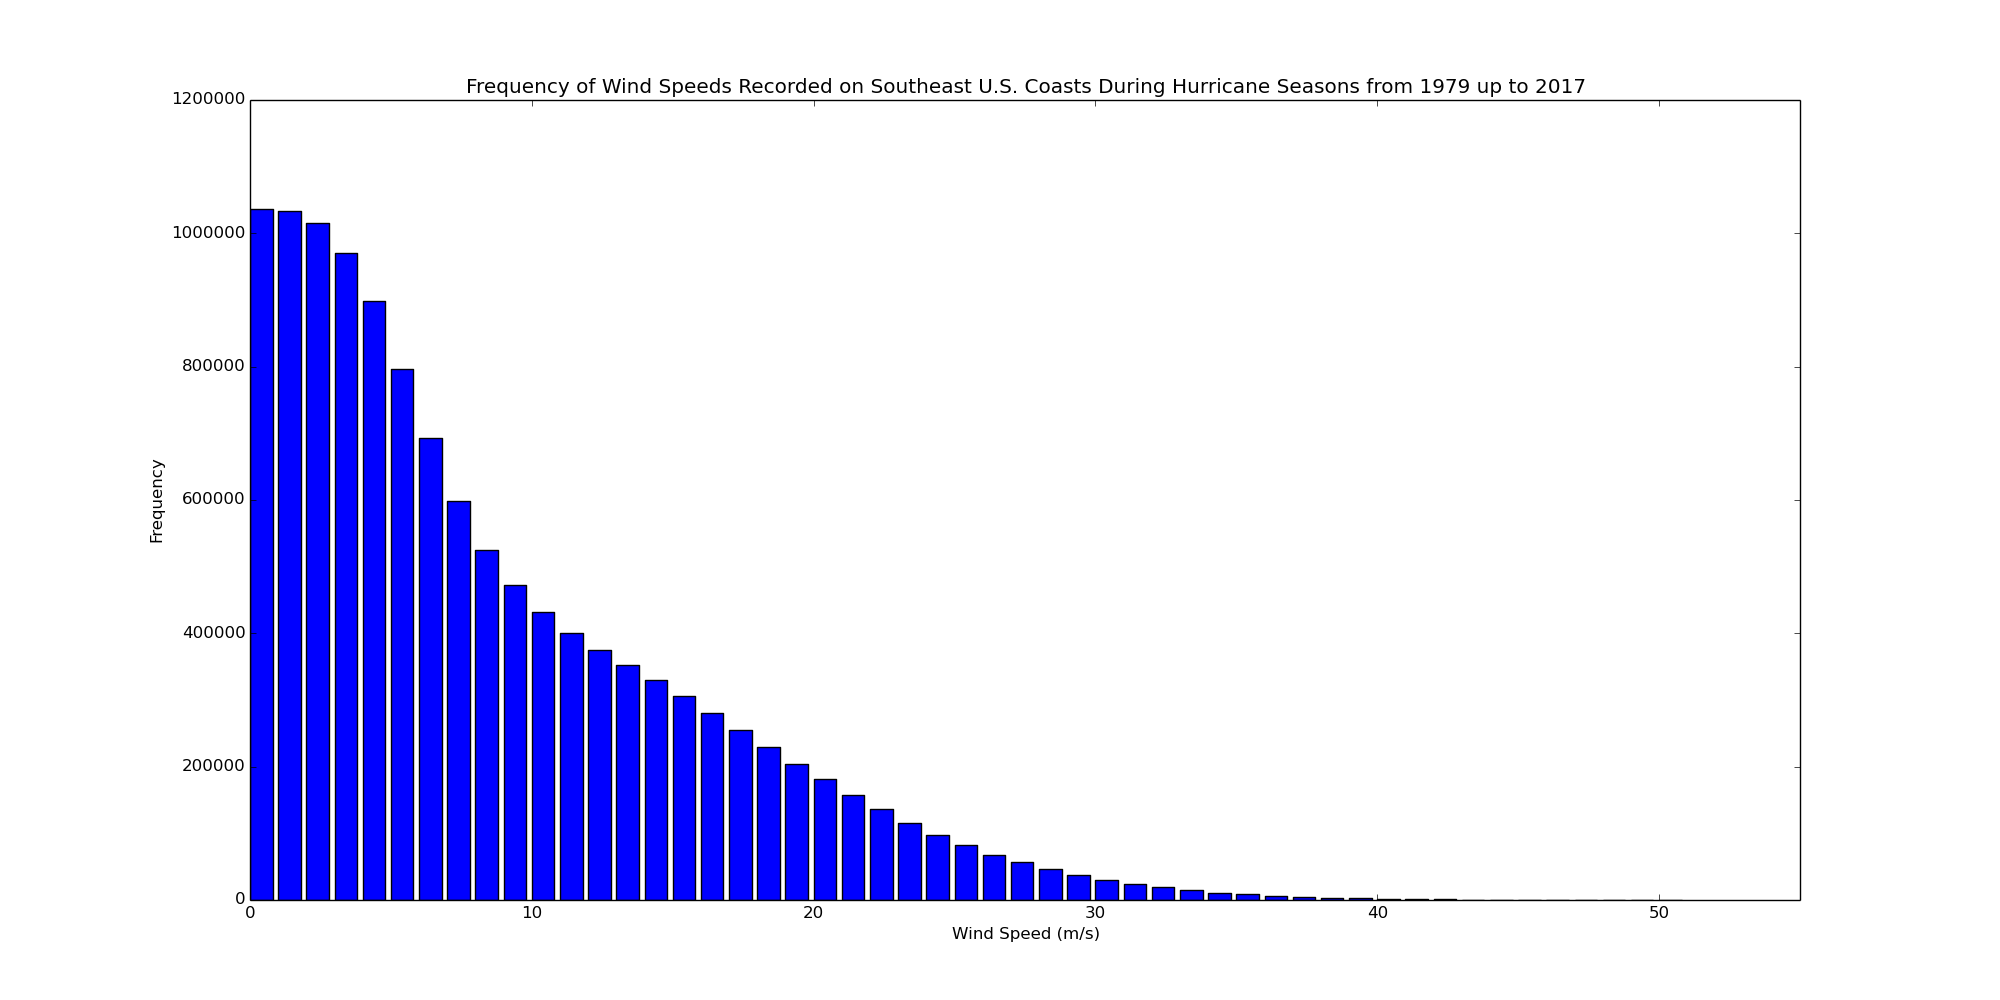
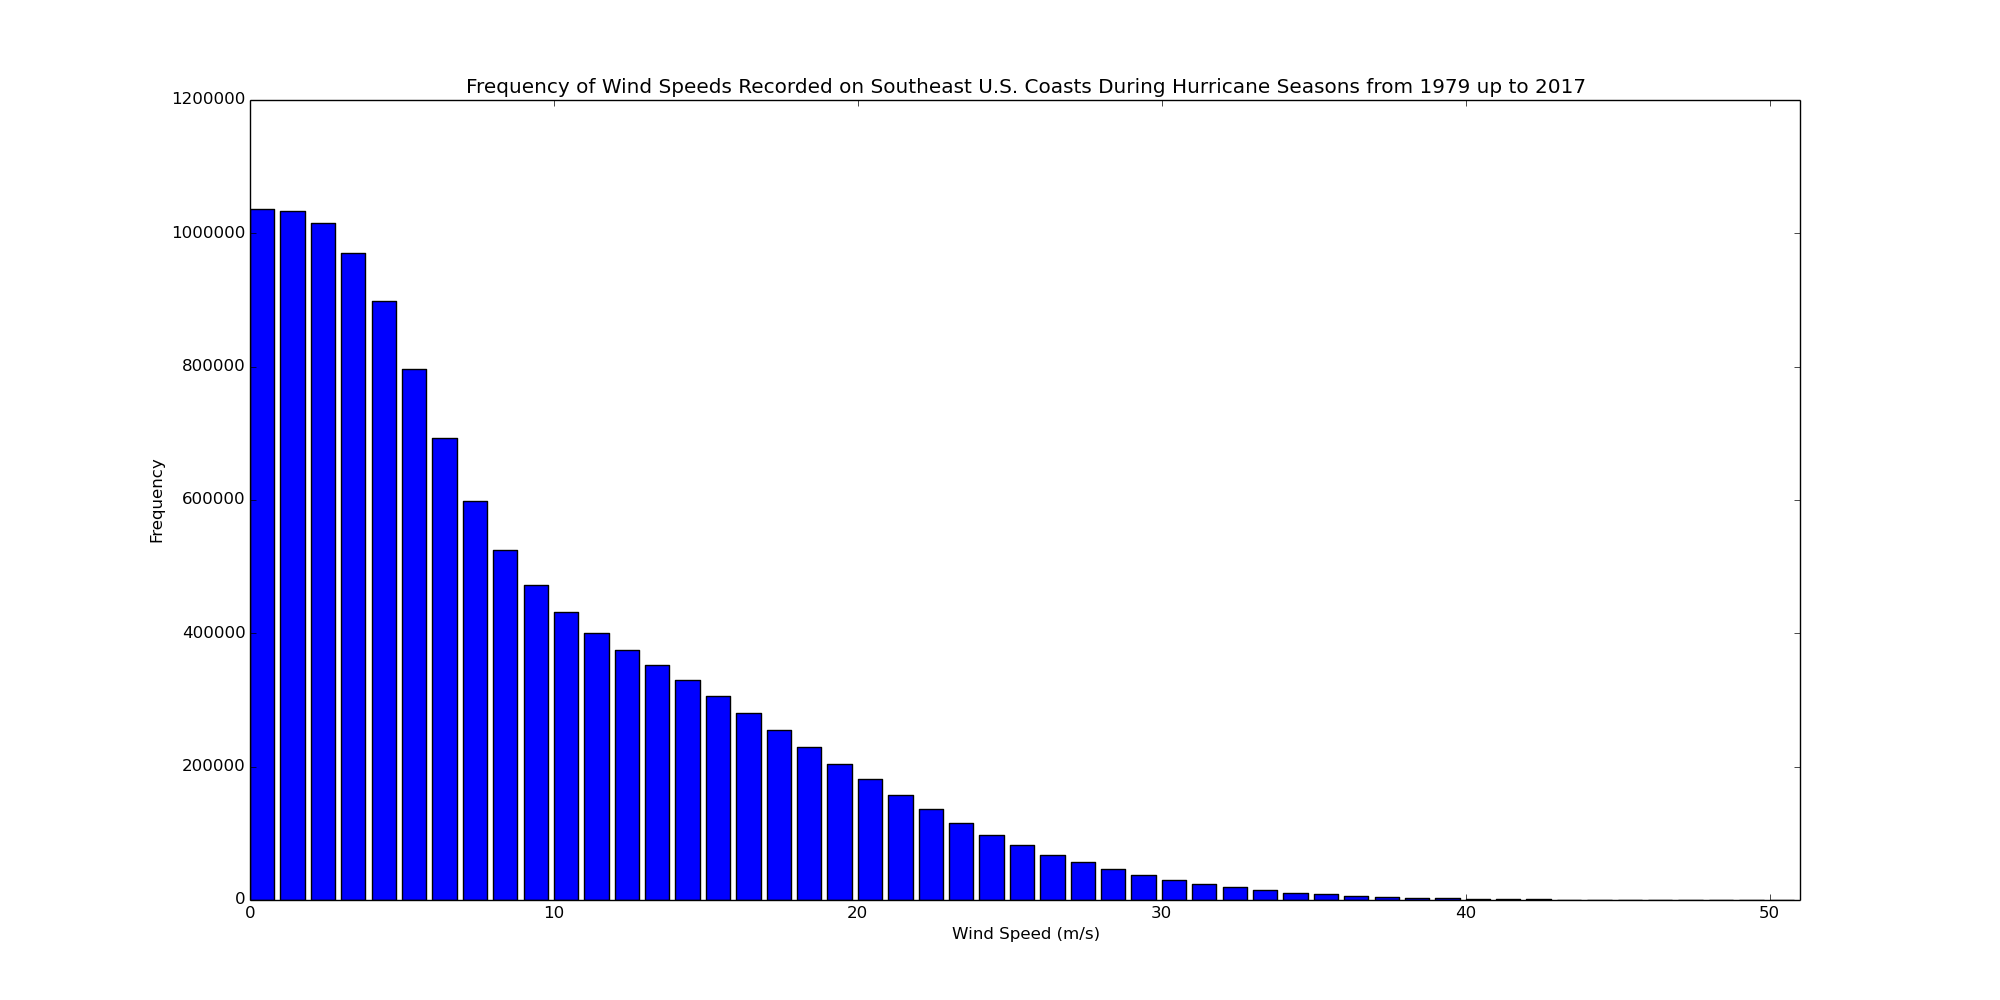
Created new figures

Changed region(s): [[0.124, 0.217, 0.682, 0.93]]

diff --git a/DLM_stats.py b/DLM_stats.py
@@ -152,7 +152,7 @@ getFrequencies(wind_speeds, wind_speed_freq_all)
 # measured locations from 1979 to 2017
 plt.figure(1, figsize = (20,10))
 plt.bar(np.arange(len(wind_speed_freq_all)), wind_speed_freq_all)
-plt.xlim(xmax=55)
+plt.xlim(xmax=51)
 plt.ylabel('Frequency')
 plt.xlabel('Wind Speed (m/s)')
 plt.title('Frequency of Wind Speeds Recorded on Southeast U.S. Coasts During ' +
@@ -191,7 +191,7 @@ getFrequencies(wind_speeds_98_16, wind_speed_freq_98_16)
 plt.figure(1, figsize = (20,10))
 plt.subplot(211)
 plt.bar(np.arange(len(wind_speed_freq_79_97)), wind_speed_freq_79_97)
-plt.xlim(xmax=55)
+plt.xlim(xmax=51)
 plt.ylim(ymax=550000)
 plt.ylabel('Frequency')
 plt.xlabel('Wind Speed (m/s)')
@@ -200,7 +200,7 @@ plt.title('Frequency of Wind Speeds Recorded on Southeast U.S. Coasts During ' +
 
 plt.subplot(212)
 plt.bar(np.arange(len(wind_speed_freq_98_16)), wind_speed_freq_98_16)
-plt.xlim(xmax=55)
+plt.xlim(xmax=51)
 plt.ylim(ymax=550000)
 plt.ylabel('Frequency')
 plt.xlabel('Wind Speed (m/s)')
@@ -212,10 +212,50 @@ plt.subplots_adjust(left = 0.125, bottom = 0.1, right = 0.9, top = 0.9, wspace =
 plt.savefig('Figures/Wind_Speeds_All_Locations_79-97_98-16_Histogram.png')
 plt.show()
 
+# Plot the two time periods side by side, rather than on two separate plots
+fig, ax = plt.subplots()
+fig.figsize = (20,10)
+#fig.set_size_inches(20,10)
+plt.figure(1, figsize = (20,10))
+print(fig.get_size_inches())
+print(fig.get_figwidth())
+print(fig.get_figheight())
+bar_width = 0.35
+ax.bar(np.arange(len(wind_speed_freq_79_97)), wind_speed_freq_79_97, bar_width,
+                color='b', label='1979-1997')
 
+ax.bar(np.arange(len(wind_speed_freq_98_16)) + bar_width, wind_speed_freq_98_16,
+                bar_width, color='r', label='1998-2016')
 
+ax.set_xlim(xmax=51)
+ax.set_xlabel('Wind Speed (m/s)')
+ax.set_ylabel('Frequency')
+ax.set_title('Frequency of Wind Speeds Recorded on Southeast U.S. Coasts During ' +
+             'Hurricane Seasons\nfrom 1979 up to 1998 vs. Hurricane Seasons from ' +
+             '1998 up to 2017')
+ax.legend()
+fig.savefig('Figures/Wind_Speeds_All_Locations_79-97_98-16_SBS_Histogram.png')
+plt.show()
 
+# Determine differences in the wind speed frequencies between the two time periods
+i = 0
+wind_speed_freq_diff = [0] * len(wind_speed_freq_79_97)
+while i < len(wind_speed_freq_79_97):
+    wind_speed_freq_diff[i] = wind_speed_freq_98_16[i] - wind_speed_freq_79_97[i]
+    i = i + 1
 
+# Create a histogram that shows the difference between the wind speed frequencies for
+# the two time periods
+plt.figure(1, figsize = (20,10))
+plt.bar(np.arange(len(wind_speed_freq_diff)), wind_speed_freq_diff)
+plt.xlim(xmax=51)
+plt.ylabel('Frequency Difference')
+plt.xlabel('Wind Speed (m/s)')
+plt.title('Difference Between Frequency of Wind Speeds Recorded During ' +
+          'Hurricane Seasons\nfrom 1979 up to 1998 and During Hurricane ' +
+          'Seasons from 1998 up to 2017')
+plt.savefig('Figures/Wind_Speed_Diff_Between_78-97_and_98-16_All_Locations_Histogram.png')
+plt.show()
 
 # Create a map showing the points that the data was obtained from
 plt.figure(1, figsize = (10,10))
